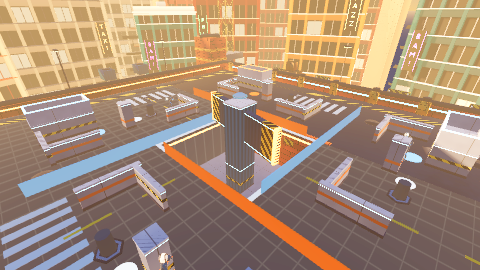
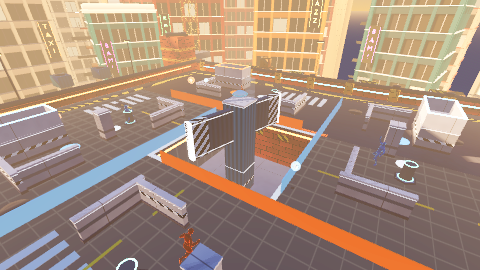
Phase 4 : Pack Démo EVA (mode opérateur --eva-demo, lanceurs PC/Quest, guide et bilan perf)

diff --git a/scripts/Tools/EvaDemoControl.cs b/scripts/Tools/EvaDemoControl.cs
@@ -1,0 +1,190 @@
+using Godot;
+
+namespace DogeballVR.Tools;
+
+/// <summary>
+/// Mode opérateur pour la présentation en salle EVA (<c>--eva-demo</c>).
+/// Permet d'enchaîner les démos sans repasser par le menu ni toucher aux fichiers :
+/// <list type="bullet">
+///   <item><c>F6</c> : relancer immédiatement la partie sur la même arène.</item>
+///   <item><c>F7</c> : basculer entre les deux arènes vitrines (<c>croix_neon</c> ↔ <c>fosse_croisee</c>).</item>
+///   <item><c>F8</c> : basculer entre la caméra joueur et la caméra spectateur orbitale (écran géant de la salle).</item>
+///   <item><c>F10</c> : afficher ou masquer le bandeau discret des raccourcis opérateur.</item>
+/// </list>
+/// </summary>
+public partial class EvaDemoControl : Node
+{
+    /// <summary>Arènes vitrines du pack démo EVA, parcourues avec F7.</summary>
+    public static readonly string[] ShowcaseMaps = { "croix_neon", "fosse_croisee" };
+
+    /// <summary>True si le jeu a été lancé avec <c>--eva-demo</c>.</summary>
+    public static bool Active => DevFlags.Has("--eva-demo");
+
+    /// <summary>Carte forcée lors d'un basculement F7 (lue au rechargement de la scène par Main).</summary>
+    public static string? MapOverride { get; set; }
+
+    string currentMap = "croix_neon";
+    Camera3D? spectatorCam;
+    Camera3D? previousCam;
+    bool spectatorActive;
+    double orbitTime;
+
+    CanvasLayer? hudLayer;
+    PanelContainer? banner;
+    Label? toastLabel;
+    double toastTimer;
+    bool bannerVisible = true;
+
+    public static void AttachIfAsked(Node parent, string mapName)
+    {
+        if (!Active || DisplayServer.GetName() == "headless") return;
+        parent.AddChild(new EvaDemoControl { Name = "EvaDemoControl", currentMap = mapName });
+    }
+
+    public override void _Ready()
+    {
+        ProcessMode = ProcessModeEnum.Always;
+        BuildOverlay();
+        ShowToast($"DÉMO EVA · {MapTitle(currentMap)}");
+    }
+
+    public override void _Process(double delta)
+    {
+        if (spectatorActive && spectatorCam != null && IsInstanceValid(spectatorCam))
+        {
+            orbitTime += delta;
+            float angle = 0.65f + (float)(orbitTime * 0.14);
+            spectatorCam.GlobalPosition = new Vector3(Mathf.Cos(angle) * 16.5f, 8.8f, Mathf.Sin(angle) * 12.5f);
+            spectatorCam.LookAt(new Vector3(0, 1.0f, 0), Vector3.Up);
+            spectatorCam.Current = true;
+        }
+        if (toastTimer > 0 && toastLabel != null)
+        {
+            toastTimer -= delta;
+            if (toastTimer <= 0) toastLabel.Visible = false;
+        }
+    }
+
+    public override void _UnhandledKeyInput(InputEvent @event)
+    {
+        if (@event is not InputEventKey k || !k.Pressed || k.Echo) return;
+        switch (k.Keycode)
+        {
+            case Key.F6:
+                ReloadArena(currentMap);
+                GetViewport().SetInputAsHandled();
+                break;
+            case Key.F7:
+                ReloadArena(NextShowcaseMap(currentMap));
+                GetViewport().SetInputAsHandled();
+                break;
+            case Key.F8:
+                ToggleSpectatorCamera();
+                GetViewport().SetInputAsHandled();
+                break;
+            case Key.F10:
+                bannerVisible = !bannerVisible;
+                if (banner != null) banner.Visible = bannerVisible;
+                GetViewport().SetInputAsHandled();
+                break;
+        }
+    }
+
+    /// <summary>Renvoie la carte vitrine suivante dans le cycle de démo.</summary>
+    public static string NextShowcaseMap(string current)
+    {
+        for (int i = 0; i < ShowcaseMaps.Length; i++)
+            if (ShowcaseMaps[i] == current) return ShowcaseMaps[(i + 1) % ShowcaseMaps.Length];
+        return ShowcaseMaps[0];
+    }
+
+    void ReloadArena(string mapName)
+    {
+        MapOverride = mapName;
+        Main.ReturnToMenu = false;
+        Engine.TimeScale = 1.0;
+        GetTree().Paused = false;
+        GD.Print($"[DemoEVA] Relance sur {mapName}");
+        GetTree().ReloadCurrentScene();
+    }
+
+    void ToggleSpectatorCamera()
+    {
+        spectatorActive = !spectatorActive;
+        if (spectatorActive)
+        {
+            previousCam = GetViewport().GetCamera3D();
+            if (spectatorCam == null || !IsInstanceValid(spectatorCam))
+            {
+                spectatorCam = new Camera3D { Name = "EvaSpectatorCam", Fov = 60f };
+                GetParent().AddChild(spectatorCam);
+            }
+            spectatorCam.Current = true;
+            ShowToast("CAMÉRA SPECTATEUR TV (F8)");
+        }
+        else
+        {
+            if (previousCam != null && IsInstanceValid(previousCam)) previousCam.Current = true;
+            ShowToast("CAMÉRA JOUEUR (F8)");
+        }
+    }
+
+    void BuildOverlay()
+    {
+        hudLayer = new CanvasLayer { Name = "EvaDemoHud", Layer = 85 };
+        AddChild(hudLayer);
+
+        var style = new StyleBoxFlat
+        {
+            BgColor = new Color(0.08f, 0.10f, 0.15f, 0.72f),
+            CornerRadiusTopLeft = 8, CornerRadiusTopRight = 8,
+            CornerRadiusBottomLeft = 8, CornerRadiusBottomRight = 8,
+            ContentMarginLeft = 10, ContentMarginRight = 10,
+            ContentMarginTop = 5, ContentMarginBottom = 5,
+        };
+
+        banner = new PanelContainer { MouseFilter = Control.MouseFilterEnum.Ignore };
+        banner.AddThemeStyleboxOverride("panel", style);
+        banner.SetAnchorsPreset(Control.LayoutPreset.TopLeft);
+        banner.Position = new Vector2(14, 14);
+        var info = new Label
+        {
+            Text = "EVA DÉMO  ·  F6 Relancer  ·  F7 Arène  ·  F8 Caméra TV  ·  F10 Masquer",
+            MouseFilter = Control.MouseFilterEnum.Ignore,
+        };
+        info.AddThemeFontSizeOverride("font_size", 13);
+        info.AddThemeColorOverride("font_color", new Color(0.92f, 0.95f, 1f, 0.92f));
+        banner.AddChild(info);
+        hudLayer.AddChild(banner);
+
+        toastLabel = new Label
+        {
+            Visible = false,
+            HorizontalAlignment = HorizontalAlignment.Center,
+            MouseFilter = Control.MouseFilterEnum.Ignore,
+        };
+        toastLabel.SetAnchorsPreset(Control.LayoutPreset.CenterTop);
+        toastLabel.Position = new Vector2(-220, 74);
+        toastLabel.Size = new Vector2(440, 32);
+        toastLabel.AddThemeFontSizeOverride("font_size", 18);
+        toastLabel.AddThemeColorOverride("font_color", new Color("FF7A1A"));
+        toastLabel.AddThemeColorOverride("font_outline_color", new Color(0.05f, 0.07f, 0.12f, 0.9f));
+        toastLabel.AddThemeConstantOverride("outline_size", 5);
+        hudLayer.AddChild(toastLabel);
+    }
+
+    void ShowToast(string text)
+    {
+        if (toastLabel == null) return;
+        toastLabel.Text = text;
+        toastLabel.Visible = true;
+        toastTimer = 3.0;
+    }
+
+    static string MapTitle(string map) => map switch
+    {
+        "croix_neon" => "CROIX NÉON",
+        "fosse_croisee" => "FOSSE CROISÉE",
+        _ => map.ToUpperInvariant(),
+    };
+}

diff --git a/scripts/Main.cs b/scripts/Main.cs
@@ -117,7 +117,7 @@ public partial class Main : Node3D
         System.Runtime.GCSettings.LatencyMode = System.Runtime.GCLatencyMode.SustainedLowLatency;   // pas de collecte complète bloquante en pleine partie   // préréglage de qualité sur chaque ciel et soleil chargés
         UI.InputSetup.Register();
         UI.GameSettings.Apply(xrActive ? null : GetViewport());
-        if (xrActive || Tools.DevFlags.Has("--vr-end-stage")) UI.EvaSettings.Load();   // salle EVA : réglages de l'opérateur, pas de menu dans le casque
+        if (xrActive || Tools.DevFlags.Has("--vr-end-stage") || Tools.EvaDemoControl.Active) UI.EvaSettings.Load();   // salle EVA : réglages de l'opérateur, pas de menu dans le casque
         if (xrActive) UI.EvaSettings.Apply();
         Engine.TimeScale = 1.0;
         GetTree().Paused = false;
@@ -191,13 +191,16 @@ public partial class Main : Node3D
         Audio.Music.PlayMatch();
         bool client = cfg.Mode == NetMode.Client;
 
-        string mapPath = $"res://maps/{cfg.Map}.json";
+        string selectedMap = Tools.EvaDemoControl.MapOverride ?? cfg.Map;
+        string mapPath = $"res://maps/{selectedMap}.json";
         if (!FileAccess.FileExists(mapPath))
         {
             GD.PrintErr($"Map introuvable : {mapPath}. Repli sur neon_court.");
+            selectedMap = "neon_court";
             mapPath = "res://maps/neon_court.json";
         }
         map = MapData.Load(mapPath);
+        if (!xrActive) Tools.EvaDemoControl.AttachIfAsked(this, selectedMap);
         // Règles de la map, lues aussi par le client (fenêtre d'attrape par palier, interception, blocage d'une attrape ratée).
         KcRules.Configure(map.Rules, xrActive);
         Assist.Configure(map.BallRules);

diff --git a/docs/DEMO-EVA.md b/docs/DEMO-EVA.md
@@ -1,0 +1,72 @@
+# Pack Démo EVA VR — Guide de présentation
+
+Ce guide rassemble tout ce qu'il faut pour lancer une démonstration **hybride Meta Quest + PC** propre et sans friction devant l'équipe EVA.
+
+---
+
+## 1. Les 2 arènes vitrines
+
+| Arène | Identifiant | Format | Points forts à montrer |
+| :--- | :--- | :--- | :--- |
+| **Croix Néon** | `croix_neon` | 2v2 | Arène lumineuse en plein jour, rotor central dynamique, lecture immédiate des équipes Orange vs Bleu et des balles. |
+| **Fosse Croisée** | `fosse_croisee` | 2v2 | Fosse centrale, tremplins et plateformes en hauteur, ring-outs spectaculaires. |
+
+---
+
+## 2. Lancement en 1 commande (jour J)
+
+### PC Hôte / Opérateur (LAN + mode démo)
+- **Windows** :
+  ```bat
+  tools\eva-demo.bat host croix_neon
+  ```
+- **Linux / macOS** :
+  ```bash
+  ./tools/eva-demo.sh host croix_neon
+  ```
+- **Vitrine écran géant (bots autonomes + caméra aérienne)** pendant l'accueil :
+  ```bash
+  ./tools/eva-demo.sh spectator croix_neon
+  ```
+
+### Casque Meta Quest (rejoint le PC hôte en LAN)
+1. Brancher le Quest et pousser les réglages de salle EVA (`eva.cfg`) :
+   ```bash
+   ./tools/eva-demo.sh quest-cfg
+   ```
+2. Lancer l'APK sur le Quest en pointant sur l'IP locale du PC hôte (`--join=<IP_PC> --zone=1`), ou passer par la salle LAN (`En ligne -> Rejoindre par IP`).
+3. Dès qu'un casque VR et un joueur PC partagent la même partie, le mode **hybride équilibré** s'active automatiquement (vitesse max des tirs PC plafonnée à `24 m/s`, fenêtre d'attrape et passes alliées unifiées façon *Knockout City*).
+
+---
+
+## 3. Raccourcis opérateur en match (`--eva-demo`)
+
+| Touche | Action |
+| :---: | :--- |
+| **F6** | Relancer immédiatement une nouvelle partie sur la même arène (zéro retour au menu). |
+| **F7** | Basculer instantanément entre **Croix Néon** et **Fosse Croisée**. |
+| **F8** | Basculer entre la **caméra joueur** et la **caméra spectateur TV** (vue orbitale en hauteur pour l'écran de la salle). |
+| **F10** | Afficher ou masquer le bandeau discret des raccourcis opérateur en haut à gauche. |
+
+---
+
+## 4. Check-list avant l'arrivée du patron d'EVA
+
+- [ ] PC hôte et casque(s) Quest sur le même Wi-Fi / LAN (port UDP par défaut ouvert dans le pare-feu Windows).
+- [ ] `eva.cfg` poussé sur le(s) casque(s) Quest (`haptics=85`, `volume=85`, `end_hold=15`).
+- [ ] Lancer `eva-demo` sur `croix_neon` et vérifier `F6` / `F7` / `F8`.
+- [ ] Garder une manette Xbox/PS ou clavier-souris prêt sur le PC pour jouer en équipe ou en face du casque VR (démonstration du cross-play hybride).
+
+---
+
+## 5. Bilan performances mesuré (`--perf-log`, objectif Quest 72 FPS = 13,9 ms/image)
+
+Mesures relevées sur 30 s de match complet (`--pc-autoplay --perf-log`) :
+
+| Arène | Moyenne | p95 | Nœuds max | Mémoire moteur | Tas .NET | Nœuds orphelins |
+| :--- | :---: | :---: | :---: | :---: | :---: | :---: |
+| **Croix Néon** | 141 i/s | **8,9 ms** | 1 555 | 69,9 Mo | 8,2 Mo | **0** |
+| **Fosse Croisée** | 141 i/s | **8,7 ms** | 1 701 | 67,2 Mo | 5,5 Mo | **0** |
+
+> [!TIP]
+> Sur casque Quest, `ModelLibrary.Quest` active automatiquement les variantes allégées des modèles et `GcPacer` lisse le ramasse-miettes pour éviter les pics en pleine partie.
